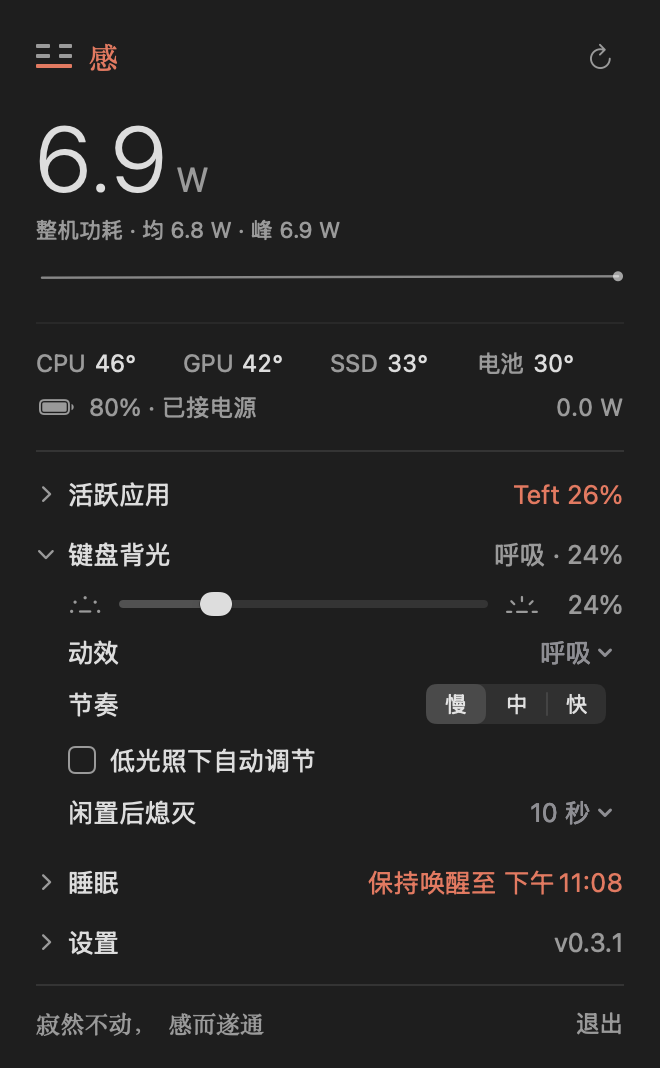
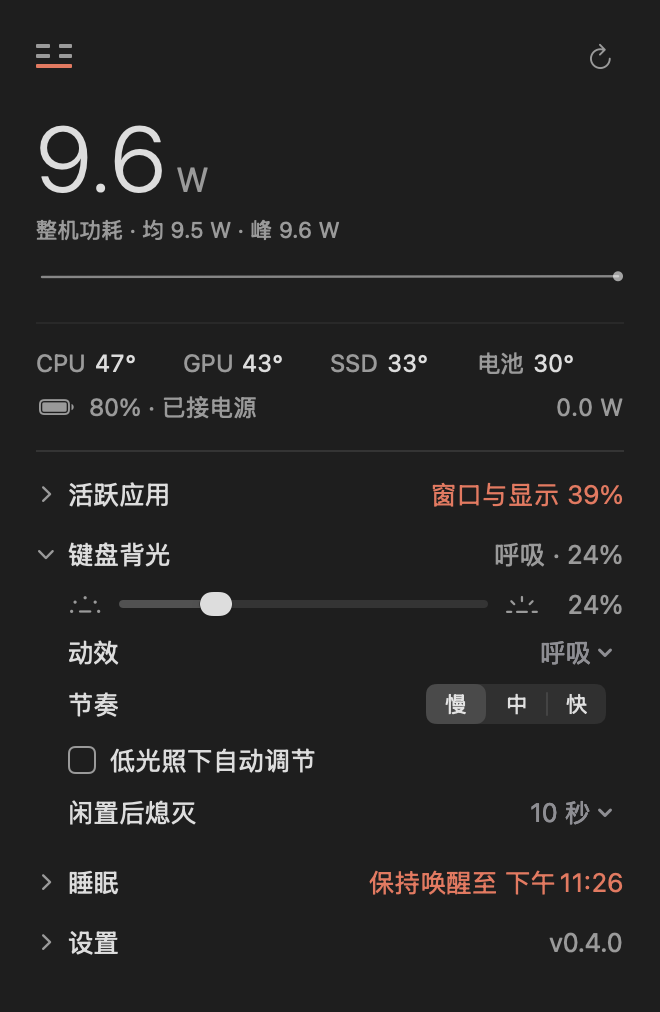
1031｜改进｜页首只留震卦，退出收进设置并加大底部留白
变更：去掉页首状态字与页脚文字，只留震卦，有需要留意的状态时底爻转为朱砂，读屏仍报告状态；README 与代码注释改为平实描述；“退出 PAPower”移入“设置”，删去底栏，底部留白由 10pt 增至 20pt；删去不再使用的宋体；重新生成 README 截图。
原因：意境由设计本身呈现，不直接写出；退出不常用，收起后面板更简净。
验证：swift build 与 app 构建通过；深浅色截图检查；静止状态截图经像素检查无朱砂。

diff --git a/Sources/PAPower/MenuBarContentView.swift b/Sources/PAPower/MenuBarContentView.swift
@@ -2,7 +2,7 @@ import AppKit
 import SwiftUI
 
 /// 菜单栏面板。平时只显示功耗读数、走势、温度与电池；其余收成一行一句摘要，点按才在原处展开。
-/// 需要留意的状态以朱砂就地显示，并让页首震卦的阳爻转红、状态字由“静”变“感”。
+/// 需要留意的状态以朱砂就地显示，页首震卦的底爻随之转红。
 struct MenuBarContentView: View {
     enum Section: String, CaseIterable {
         case activity
@@ -42,14 +42,11 @@ struct MenuBarContentView: View {
                 Divider()
                     .padding(.top, 14)
                 sections
-                    .padding(.vertical, 6)
-                Divider()
-                footer
-                    .padding(.top, 10)
+                    .padding(.top, 6)
             }
             .padding(.horizontal, 18)
             .padding(.top, 16)
-            .padding(.bottom, 14)
+            .padding(.bottom, 20)
             .background {
                 GeometryReader { proxy in
                     Color.clear.preference(key: ContentHeightKey.self, value: proxy.size.height)
@@ -77,19 +74,14 @@ struct MenuBarContentView: View {
         return max(visibleHeight - 40, 320)
     }
 
-    // MARK: - 静：常驻内容
+    // MARK: - 常驻内容
 
     private var header: some View {
         HStack(spacing: 8) {
-            HStack(spacing: 8) {
-                ThunderTrigram(isStirred: isStirred)
-                Text(isStirred ? "感" : "静")
-                    .font(PanelTheme.song(15))
-                    .foregroundStyle(isStirred ? AnyShapeStyle(PanelTheme.cinnabar) : AnyShapeStyle(.secondary))
-            }
-            .accessibilityElement(children: .ignore)
-            .accessibilityLabel(isStirred ? "有 \(stirredCount) 处需要留意" : "一切平静")
-            .help("静：一切如常；感：有需要留意的状态，已在原处以朱砂标出。")
+            ThunderTrigram(isStirred: isStirred)
+                .accessibilityElement(children: .ignore)
+                .accessibilityLabel(isStirred ? "有 \(stirredCount) 处需要留意" : "一切如常")
+                .help("底爻转为朱砂时，表示有需要留意的状态，已在原处标出。")
 
             Spacer()
 
@@ -183,7 +175,7 @@ struct MenuBarContentView: View {
         .help(batteryHelp(battery))
     }
 
-    // MARK: - 感而遂通：点按才展开的区块
+    // MARK: - 点按展开的区块
 
     private var sections: some View {
         VStack(alignment: .leading, spacing: 0) {
@@ -530,6 +522,15 @@ struct MenuBarContentView: View {
 
             updateControl
                 .padding(.top, 2)
+
+            HStack {
+                Spacer()
+                Button("退出 PAPower") {
+                    NSApp.terminate(nil)
+                }
+            }
+            .buttonStyle(.borderless)
+            .controlSize(.small)
         }
         .font(.system(size: 13))
     }
@@ -595,24 +596,7 @@ struct MenuBarContentView: View {
             .fixedSize(horizontal: false, vertical: true)
     }
 
-    private var footer: some View {
-        HStack(alignment: .firstTextBaseline) {
-            Text("寂然不动，感而遂通")
-                .font(PanelTheme.song(12))
-                .foregroundStyle(.secondary)
-                .accessibilityHidden(true)
-            Spacer()
-            Button("退出") {
-                NSApp.terminate(nil)
-            }
-            .buttonStyle(.plain)
-            .font(.system(size: 12))
-            .foregroundStyle(.secondary)
-            .help("退出 PAPower")
-        }
-    }
-
-    // MARK: - 感：需要留意的状态
+    // MARK: - 需要留意的状态
 
     private enum TemperatureLevel {
         case normal

diff --git a/Sources/PAPower/PanelStyle.swift b/Sources/PAPower/PanelStyle.swift
@@ -1,19 +1,14 @@
 import AppKit
 import SwiftUI
 
-/// 面板的视觉基调，取“寂然不动，感而遂通”：平时只有墨色；朱砂（符箓之色）只在“感”时出现，
-/// 即需要留意或正在生效的状态，且总在出事的地方就地出现，不另设提醒区。
+/// 面板的视觉基调：平时只有墨色；朱砂（符箓之色）只用于需要留意或正在生效的状态，
+/// 且总在相应的位置就地出现，不另设提醒区。
 enum PanelTheme {
     /// 朱砂。浅色 #B3361F（对白 6.1:1），深色 #F2735A（对 #1E1E1E 5.9:1），增强对比度时再加深／提亮。
     static let cinnabar = dynamic(light: 0xB3361F, dark: 0xF2735A, lightHighContrast: 0x8E2412, darkHighContrast: 0xFF8E78)
 
     /// 墨：控件的强调色（开关、滑块、主按钮），替代系统强调色，让平时的面板保持单色。
     static let ink = dynamic(light: 0x48484A, dark: 0x8E8E93, lightHighContrast: 0x1C1C1E, darkHighContrast: 0xC7C7CC)
-
-    /// 宋体只用于题记与状态字，正文和控件仍用系统字体。
-    static func song(_ size: CGFloat) -> Font {
-        .custom("Songti SC", size: size, relativeTo: .body)
-    }
 
     private static func dynamic(
         light: UInt32,

diff --git a/Sources/PAPower/ThunderTrigram.swift b/Sources/PAPower/ThunderTrigram.swift
@@ -67,6 +67,7 @@ extension NSImage {
 }
 
 /// 面板页首的震卦：平时三爻皆为墨色；有需要留意的状态时，底下的阳爻转为朱砂。
+/// 无障碍标签由使用处按当前状态提供。
 struct ThunderTrigram: View {
     var isStirred: Bool
 
@@ -83,7 +84,6 @@ struct ThunderTrigram: View {
                 .foregroundStyle(isStirred ? AnyShapeStyle(PanelTheme.cinnabar) : AnyShapeStyle(.secondary))
         }
         .frame(width: metrics.width, height: metrics.height, alignment: .topLeading)
-        .accessibilityHidden(true)
     }
 
     private func bar(_ rect: CGRect) -> some View {
